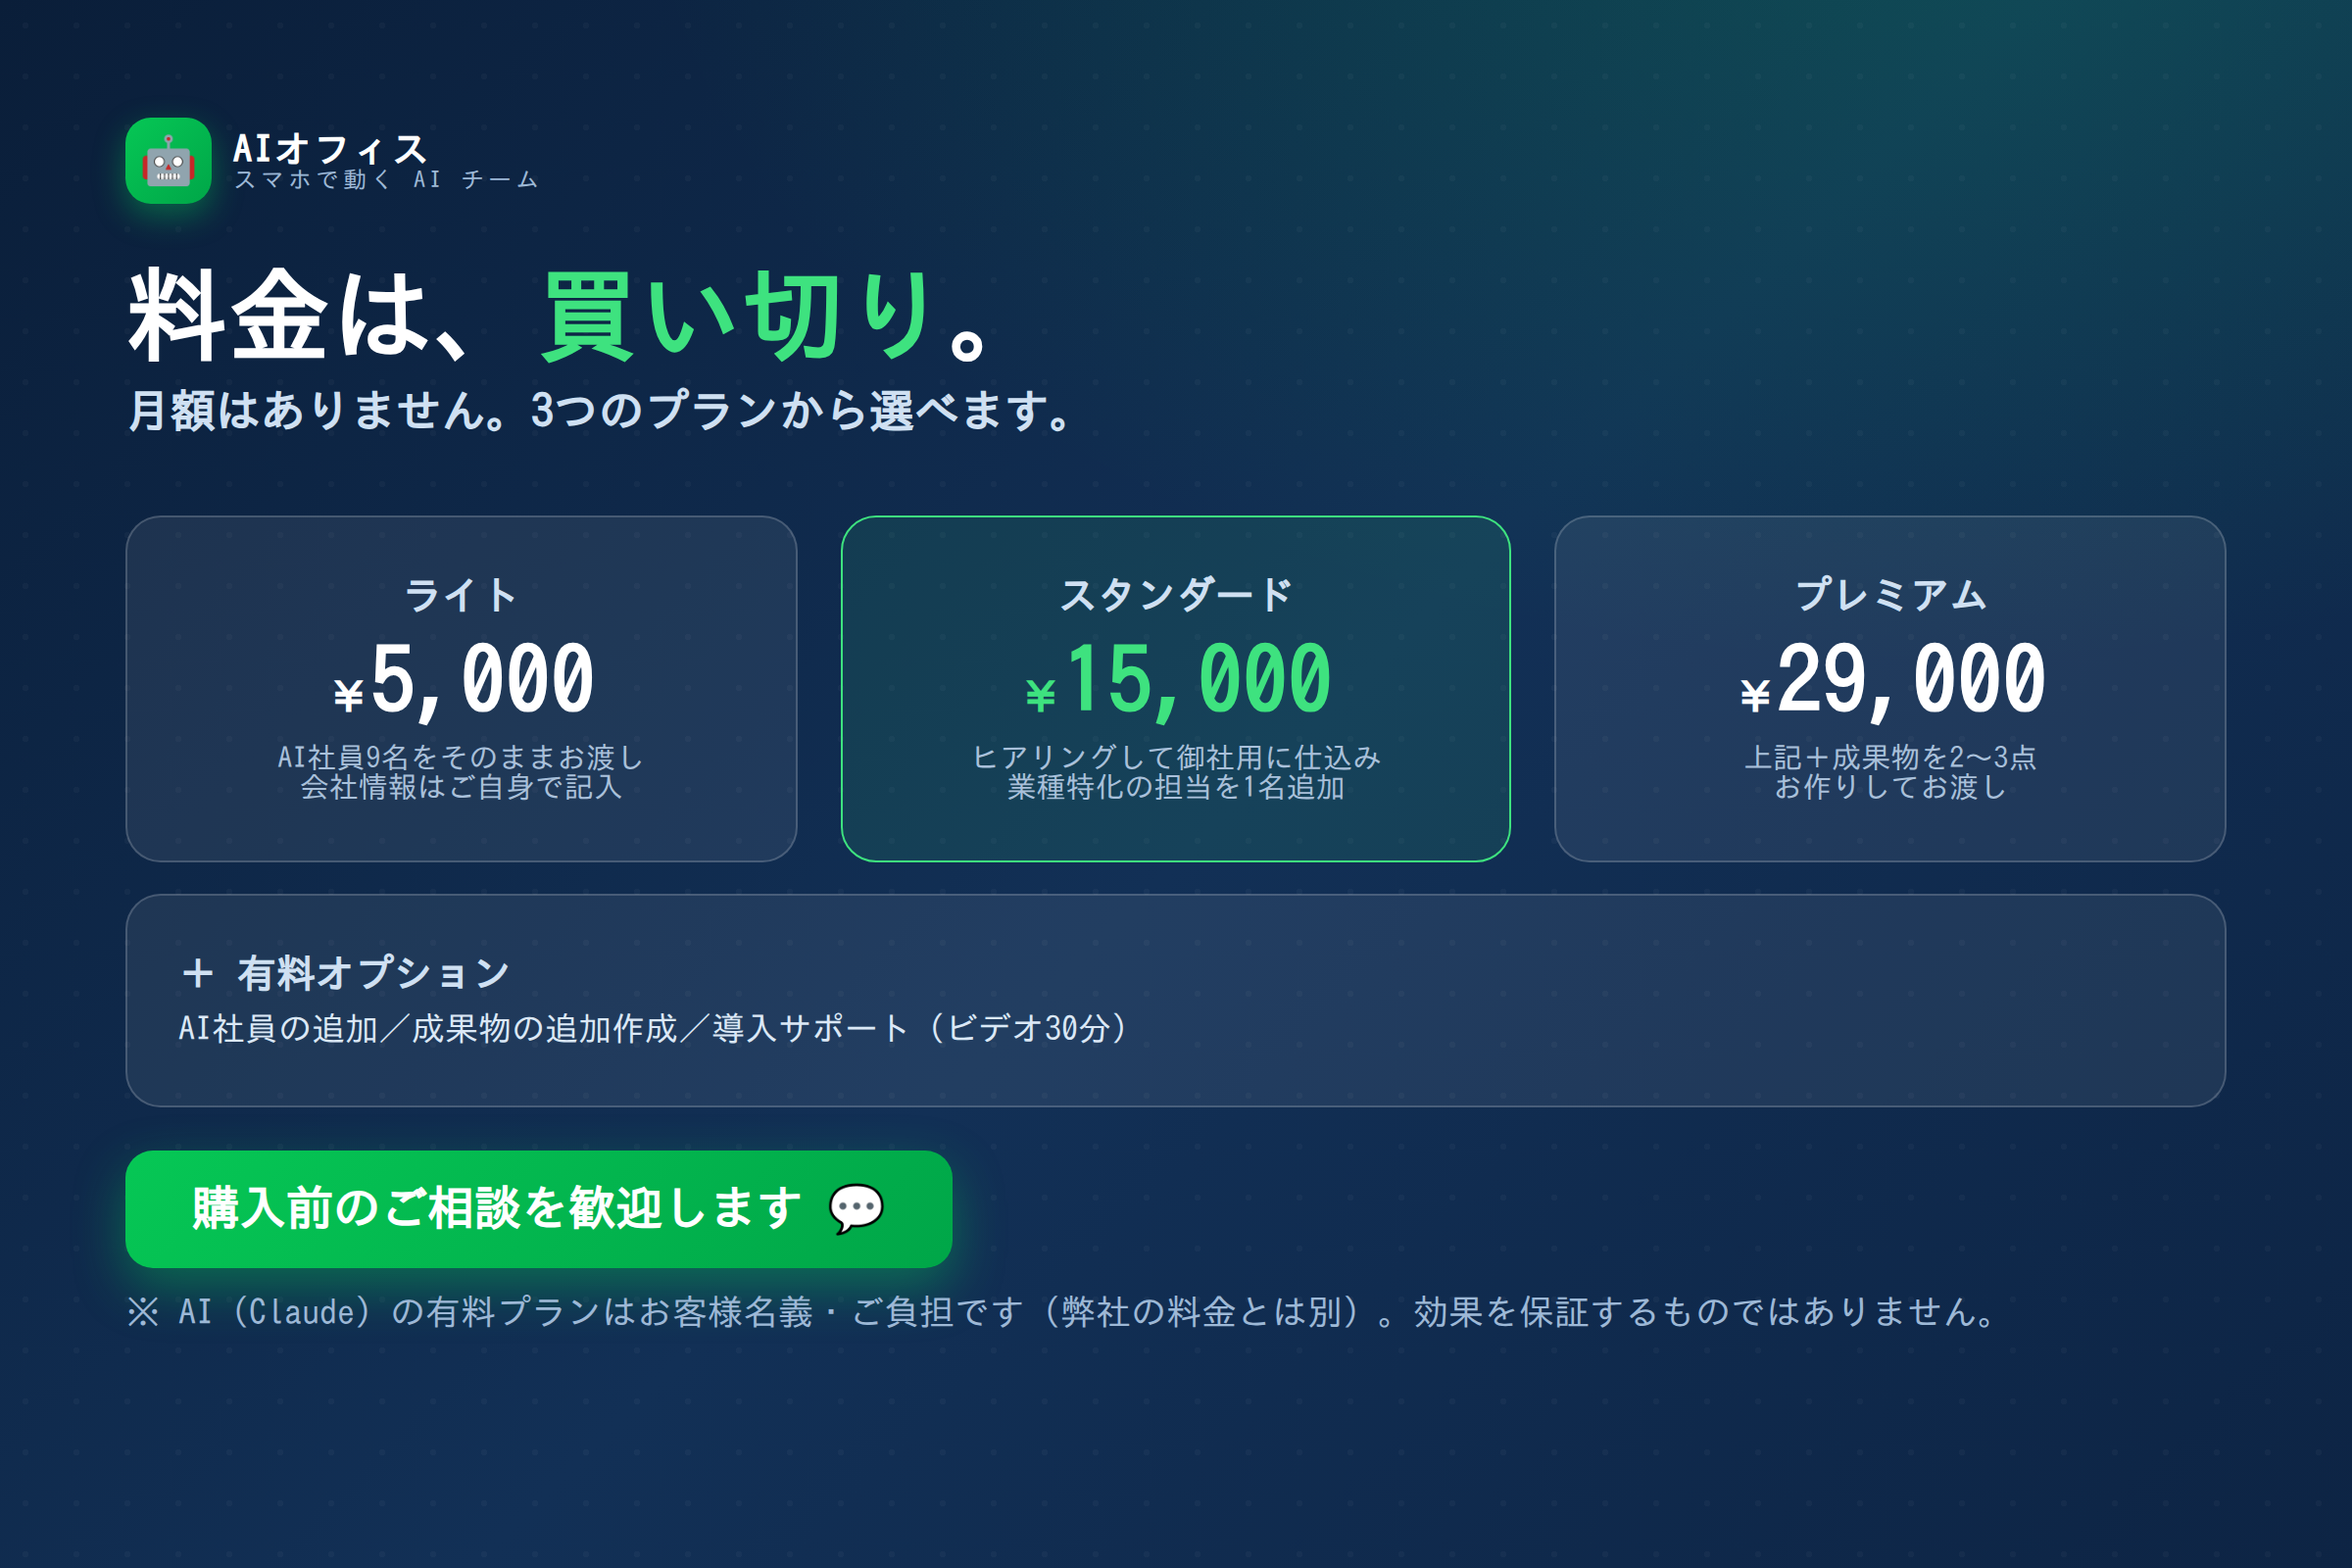
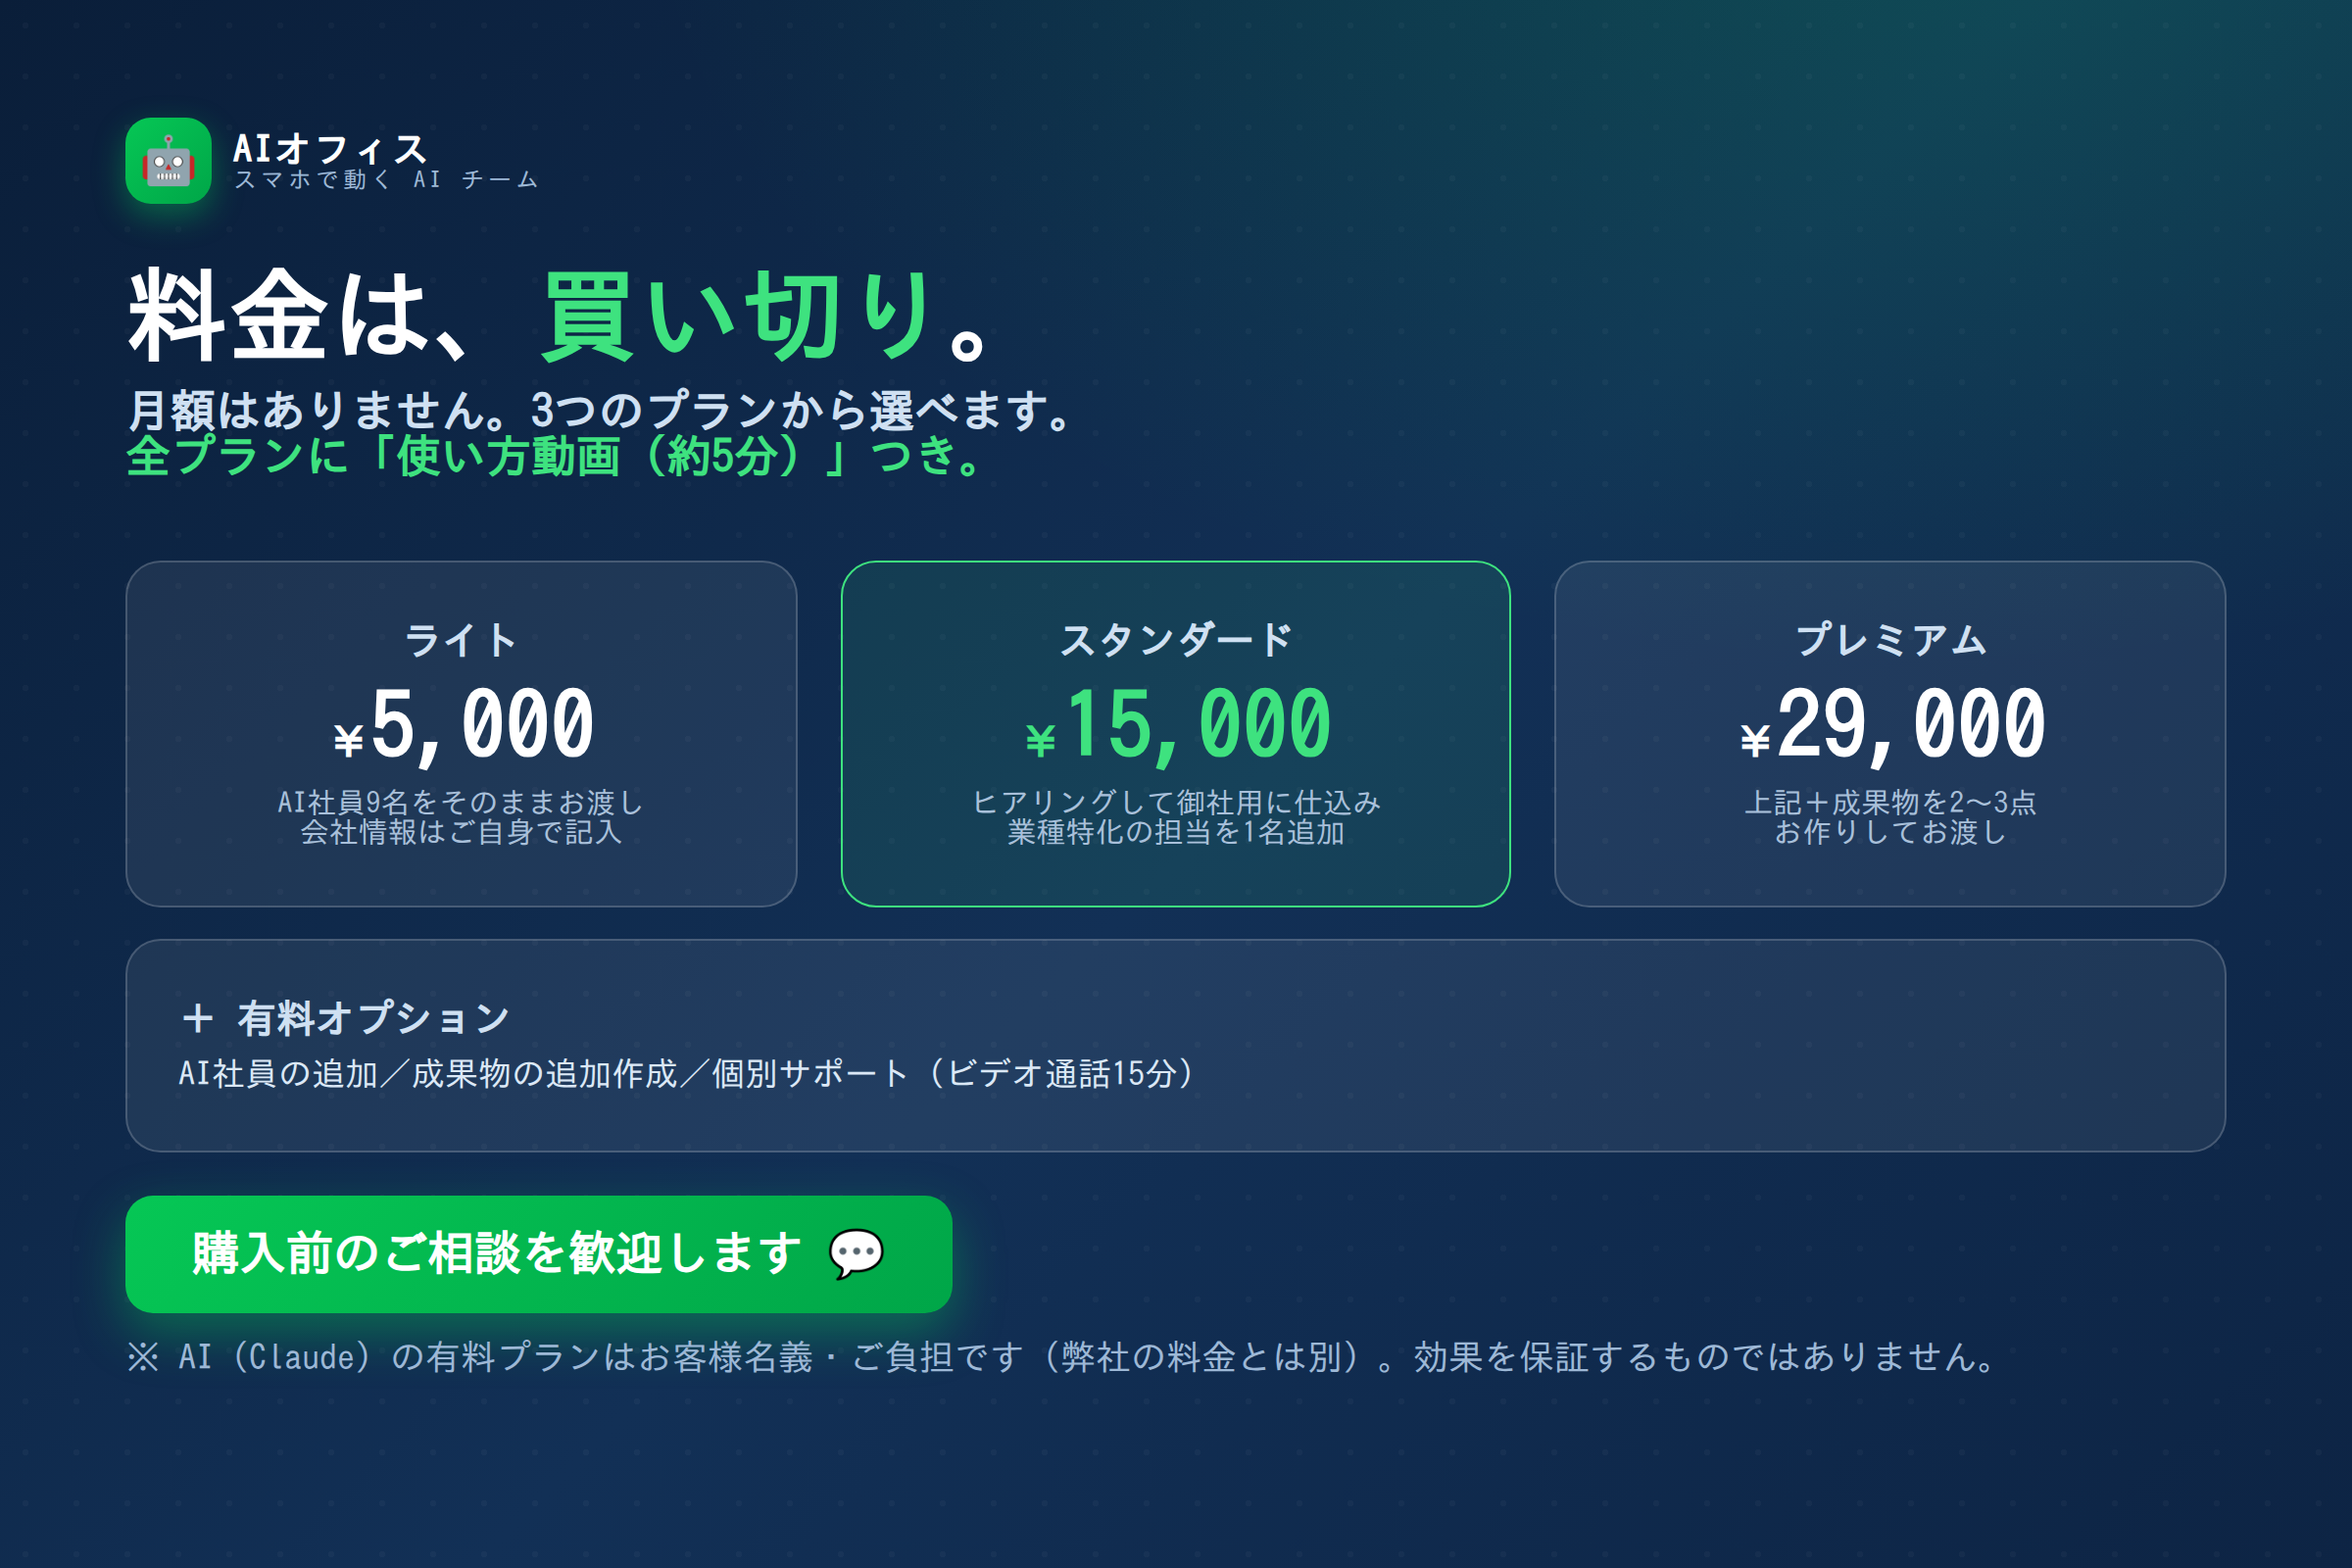
改善: 使い方動画(約5分)を標準同梱に変更＋台本を作成（30分サポートは15分通話に縮小）

diff --git a/ai-office-kit/assets/coconala-starter/gallery.html b/ai-office-kit/assets/coconala-starter/gallery.html
@@ -108,14 +108,14 @@
   <div class="slide"><div class="inner">
     <div class="kick"><div class="logo">🤖</div><div class="bn">AIオフィス<small>スマホで動く AI チーム</small></div></div>
     <h1>料金は、<span class="g">買い切り</span>。</h1>
-    <div class="say">月額はありません。3つのプランから選べます。</div>
+    <div class="say">月額はありません。3つのプランから選べます。<br><span style="color:#3ee27f;">全プランに「使い方動画（約5分）」つき。</span></div>
     <div class="price">
       <div class="pcard"><div class="lbl">ライト</div><div class="amt"><small>¥</small>5,000</div><div class="sub">AI社員9名をそのままお渡し<br>会社情報はご自身で記入</div></div>
       <div class="pcard main"><div class="lbl">スタンダード</div><div class="amt"><small>¥</small>15,000</div><div class="sub">ヒアリングして御社用に仕込み<br>業種特化の担当を1名追加</div></div>
       <div class="pcard"><div class="lbl">プレミアム</div><div class="amt"><small>¥</small>29,000</div><div class="sub">上記＋成果物を2〜3点<br>お作りしてお渡し</div></div>
     </div>
     <div class="price" style="margin-top:16px;">
-      <div class="pcard" style="text-align:left;"><div class="lbl">＋ 有料オプション</div><div class="sub" style="margin-top:6px;font-size:17px;color:#dbe8f6;">AI社員の追加／成果物の追加作成／導入サポート（ビデオ30分）</div></div>
+      <div class="pcard" style="text-align:left;"><div class="lbl">＋ 有料オプション</div><div class="sub" style="margin-top:6px;font-size:17px;color:#dbe8f6;">AI社員の追加／成果物の追加作成／個別サポート（ビデオ通話15分）</div></div>
     </div>
     <div class="cta">購入前のご相談を歓迎します 💬</div>
     <div class="foot" style="margin-top:14px;">※ AI（Claude）の有料プランはお客様名義・ご負担です（弊社の料金とは別）。効果を保証するものではありません。</div>

diff --git a/ai-office-kit/docs/ONBOARDING-VIDEO-SCRIPT.md b/ai-office-kit/docs/ONBOARDING-VIDEO-SCRIPT.md
@@ -1,0 +1,93 @@
+# 使い方動画（約5分）台本｜スタートキット標準同梱
+
+> **なぜ作るのか**（2026-08-12・オーナー指摘）
+> 有料オプションを「導入サポート（ビデオ30分）」にしていたが、オーナーから
+> **「30分は長すぎる。分からない人は離脱する。俺もそう」**との指摘。正しい。
+> → **約5分の動画を全プランに標準同梱**に変更。
+> 効果：①顧客が離脱しない ②1本作れば全員に使える ③**個別対応が減ってオーナーがラクになる**
+> ④「動画つき」自体が売りになる。個別サポートは**ビデオ通話15分**の有料オプションに縮小。
+
+## 作り方の前提
+- **画面録画＋声**でOK（顔出し不要）。iPhoneでもMacでも可
+- **5分を超えない**。超えそうなら内容を削る（迷ったら削る）
+- 完成したら **YouTubeの「限定公開」**にアップ → URLを納品時に渡す
+  ※納品物の `はじめにお読みください.md` にもURLを追記する
+
+---
+
+## 台本（合計 約5分）
+
+### ⓪ 冒頭（0:00〜0:20／20秒）
+> 「AIオフィスをご購入ありがとうございます。
+> 　この動画を最後まで見れば、**今日から使えます**。5分だけお付き合いください。
+> 　やることは3つだけです。**アプリを入れる・フォルダを開く・話しかける**。以上です。」
+
+**画面**：タイトル画面（「3ステップで使えます」）
+
+---
+
+### ① Claudeアプリを入れる（0:20〜1:20／1分）
+> 「まず、Claudeというアプリをスマホに入れます。App StoreまたはGoogle Playで『Claude』で検索してください。
+> 　入れたら、**有料プランのご契約**をお願いします。これはAIの頭脳の部分で、**お客様名義でのご契約**になります。
+> 　弊社の料金とは別ですので、そこだけご了承ください。」
+
+**画面**：アプリのインストール → ログイン → プラン画面
+**注意**：金額は変わるので**具体的な金額は言わない**（「有料プラン」と言うだけ）
+
+---
+
+### ② お渡ししたキットを開く（1:20〜2:20／1分）
+> 「次に、お渡ししたあなた専用のAIチームを開きます。
+> 　アプリのメニューから『コード』を選んで、**リポジトリの選択ボタン**を押します。
+> 　そこに『（お客様の名前）』のものがありますので、それを選んでください。
+> 　これがあなたの会社専属のAIチームです。」
+
+**画面**：Claudeアプリ → メニュー → コード → リポジトリ選択 → 開く
+**ポイント**：**実際の指の動きを見せる**（言葉より速い）
+
+---
+
+### ③ 話しかけてみる（2:20〜3:50／1分30秒）
+> 「あとは話しかけるだけです。試しにこう打ってみてください。
+> 　**『インスタの投稿を3本つくって』**
+> 　すると、リーダーが内容を理解して、SNS担当に振り分けます。
+> 　しばらく待つと、投稿の文章がこの画面に出てきます。**そのままコピーして使えます。**」
+
+**画面**：実際に入力 → リーダーが応答 → 担当に振る → 成果物が出る（**早送りしてOK**）
+**ポイント**：**成果物が出た瞬間**を必ず見せる。ここが一番伝わる
+
+---
+
+### ④ もっと良くするコツ（3:50〜4:30／40秒）
+> 「もう一つだけ。**『会社情報』というファイル**を開いてみてください。
+> 　ここに御社の商品やお客様のこと、使ってほしくない言葉を書いておくと、
+> 　**次の依頼から精度が上がります。**
+> 　（スタンダード以上の方は、こちらで記入済みです。変わったら書き換えてください）」
+
+**画面**：会社情報ファイルを開く → 記入例を見せる
+
+---
+
+### ⑤ 困ったときと締め（4:30〜5:00／30秒）
+> 「うまくいかない時は、**その画面に『動きません』と書いてください。**
+> 　AIが対処方法を案内します。
+> 　それでも解決しない場合は、ご遠慮なくご連絡ください。
+> 　最後に一つだけ。**AIが作ったものは、公開する前に必ずご自身で確認してください。**
+> 　では、さっそく使ってみてください。ありがとうございました。」
+
+**画面**：「困ったときは」ファイル → 締めのタイトル
+
+---
+
+## 撮影チェックリスト
+- [ ] **5分以内**に収まっている（超えたら②③以外を削る）
+- [ ] **具体的な金額を言っていない**（プラン料金は変わるため）
+- [ ] **効果を保証する言い方をしていない**（「必ず売れる」等）
+- [ ] 実際の**成果物が出る瞬間**が映っている
+- [ ] 画面に**他人の個人情報・他社名**が写り込んでいない
+- [ ] 音が聞き取れる（静かな場所で撮る）
+
+## 公開後にやること
+- [ ] YouTubeに**限定公開**でアップ
+- [ ] URLを `starter-kit/はじめにお読みください.md` に追記
+- [ ] `COCONALA-LISTING-B.md` の「含まれるもの」に記載済み（動画URLは納品時に渡す）

diff --git a/ai-office-kit/docs/PROJECT-STATUS.md b/ai-office-kit/docs/PROJECT-STATUS.md
@@ -141,6 +141,23 @@
   対応済み：`CLAUDE.md`の報告フォーマットに「💾 残す場合は『PRを作成』→『マージ』／押さなくても本文をコピーすれば使える」を**必須の1行**として追加（技術用語禁止）。
   `はじめにお読みください.md`に「できあがったものの受け取り方」、`困ったときは.md`の症状5を書き換え。
 - **顧客向け納品手順書を作成**＝`docs/STARTER-KIT-DELIVERY.md`（前提の明示／ヒアリング項目／リポジトリ作成コマンド／**キットはリポジトリ直下必須**／顧客へ送る案内文コピペ／納品前チェックリスト／FAQ／LINE版へのアップセル）。
+### 🎥使い方動画（約5分）を標準同梱に変更（2026-08-12・オーナー指摘）
+有料オプションを「導入サポート（ビデオ30分）」としていたところ、オーナーから
+**「30分は長すぎる。分からない人は離脱する。俺もそう」**との指摘。**正しい**ので設計変更。
+- **約5分の使い方動画を全プランに標準同梱**（含まれるものに明記＝**それ自体が売りになる**）。
+  個別サポートは**ビデオ通話15分**の有料オプションに縮小（+¥5,000）。
+- ⚠副産物の発見：**オーナーが「ビデオ30分」を"30分の動画"と読んだ**＝顧客も必ずそう読む。
+  → 表記を**「個別サポート（ビデオ通話15分）」**に変更（通話なのか動画なのかを曖昧にしない）。
+- **`docs/ONBOARDING-VIDEO-SCRIPT.md` 新規**＝そのまま撮れる台本（5分・章ごとの秒数指定・画面指示つき）。
+  構成＝⓪冒頭20秒「3つだけ」→①アプリ導入1分→②キットを開く1分→③**話しかけて成果物が出る瞬間**1分30秒
+  →④会社情報で精度が上がる40秒→⑤困った時と締め30秒。
+  撮影チェックリスト＝5分以内／**具体的な金額を言わない**（変動するため）／効果保証しない／
+  他人の個人情報・他社名の写り込みなし。公開は**YouTube限定公開**→URLを納品時に渡す。
+- `starter-kit/はじめにお読みください.md` の冒頭に「まず動画を見れば、この先は読まなくてよい」導線を追加。
+- 料金スライド（gallery-4）に**「全プランに使い方動画（約5分）つき」**を明記して再出力。
+- **★教訓：説明を長くすると離脱する。「短くして標準に含める」方が顧客もオーナーもラク**（1本作れば全員に使え、個別対応が減る）。
+- 残：**動画を実際に撮る**（オーナー作業。台本は完成済み）→ URLを納品物と出品文に反映。
+
 ### 📌コピーの原則を確立：タイトルに成果物名を出さない（2026-08-12・オーナー指摘で確定）
 ココナラのタイトルを3案検討し、**オーナーの2度の指摘で正解に到達**した。今後の全コピーに適用する原則：
 1. 初案`スマホだけで働くAI社員チームを作ります` → ❌**主語がズレる**（AIがスマホで働くと読める）。

diff --git a/ai-office-kit/starter-kit/はじめにお読みください.md b/ai-office-kit/starter-kit/はじめにお読みください.md
@@ -1,5 +1,9 @@
 # はじめにお読みください（3ステップで始められます）
 
+> 🎥 **急いでいる方は、まず「使い方動画（約5分）」をご覧ください。**
+> 　　▶ （納品時に動画のURLをお渡しします）
+> 　　これを見れば、この先を読まなくても使い始められます。
+
 このフォルダが、**御社専属のAIチーム**です。
 デザイナー・ライター・SNS担当など**8人のAI社員**が入っています。
 
